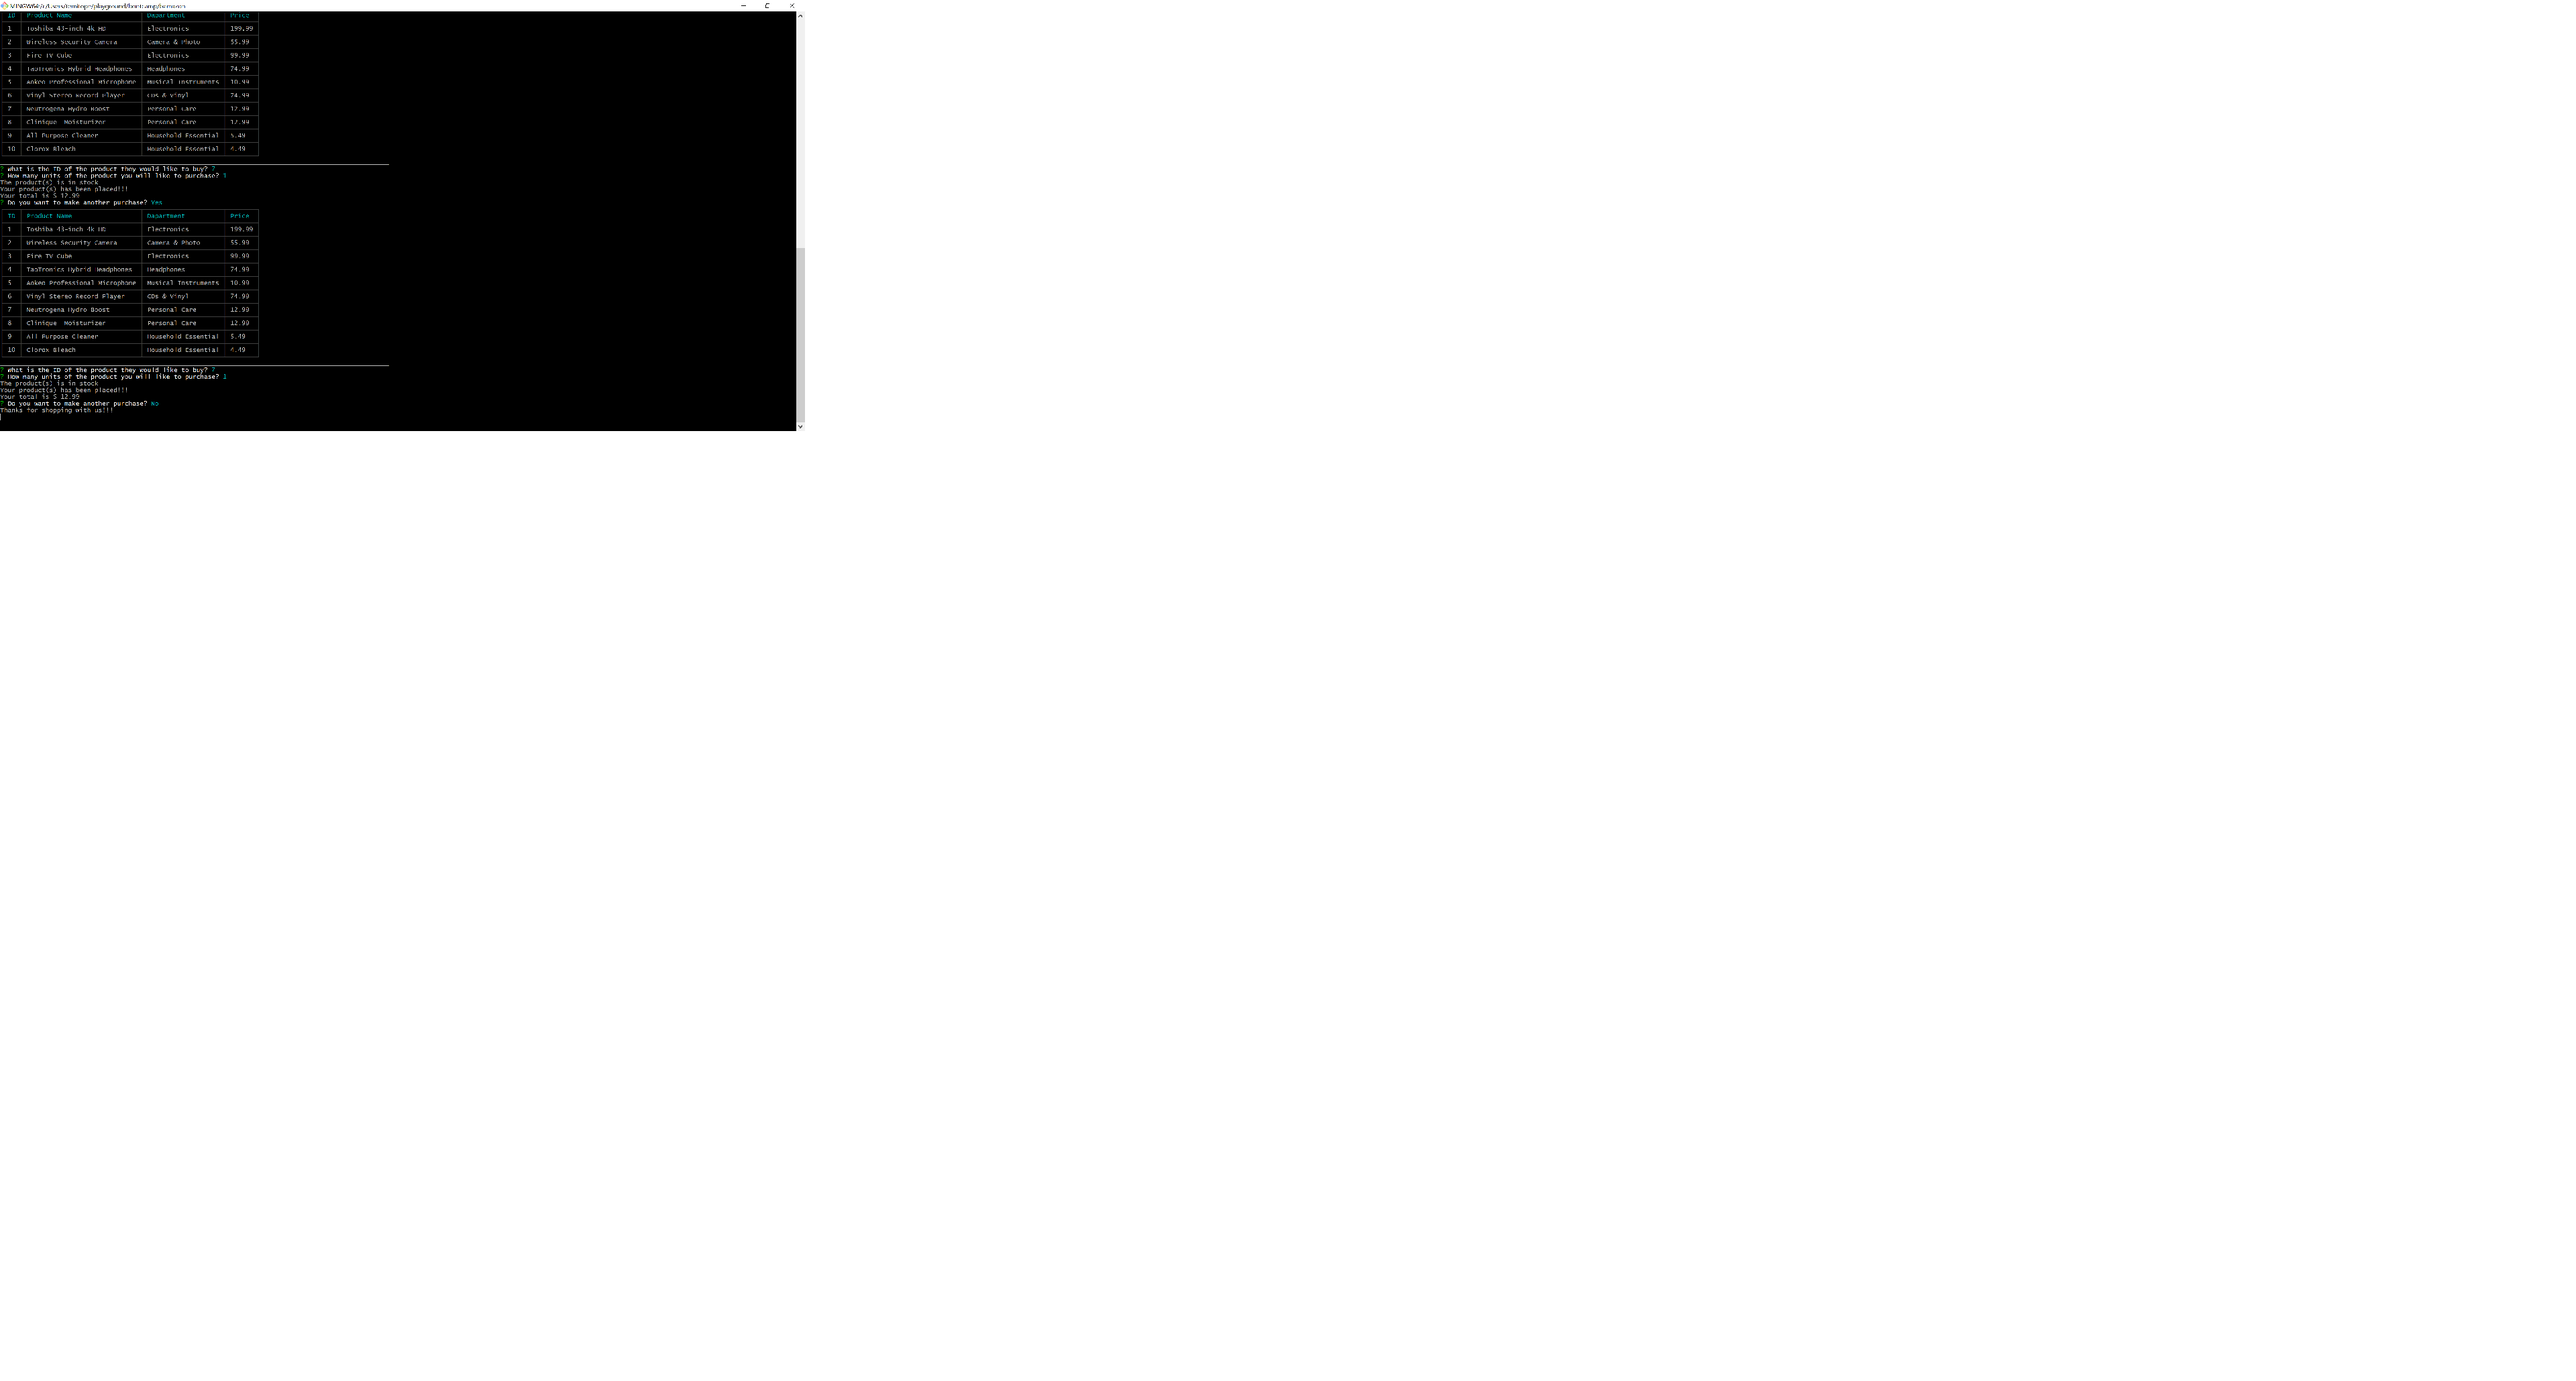
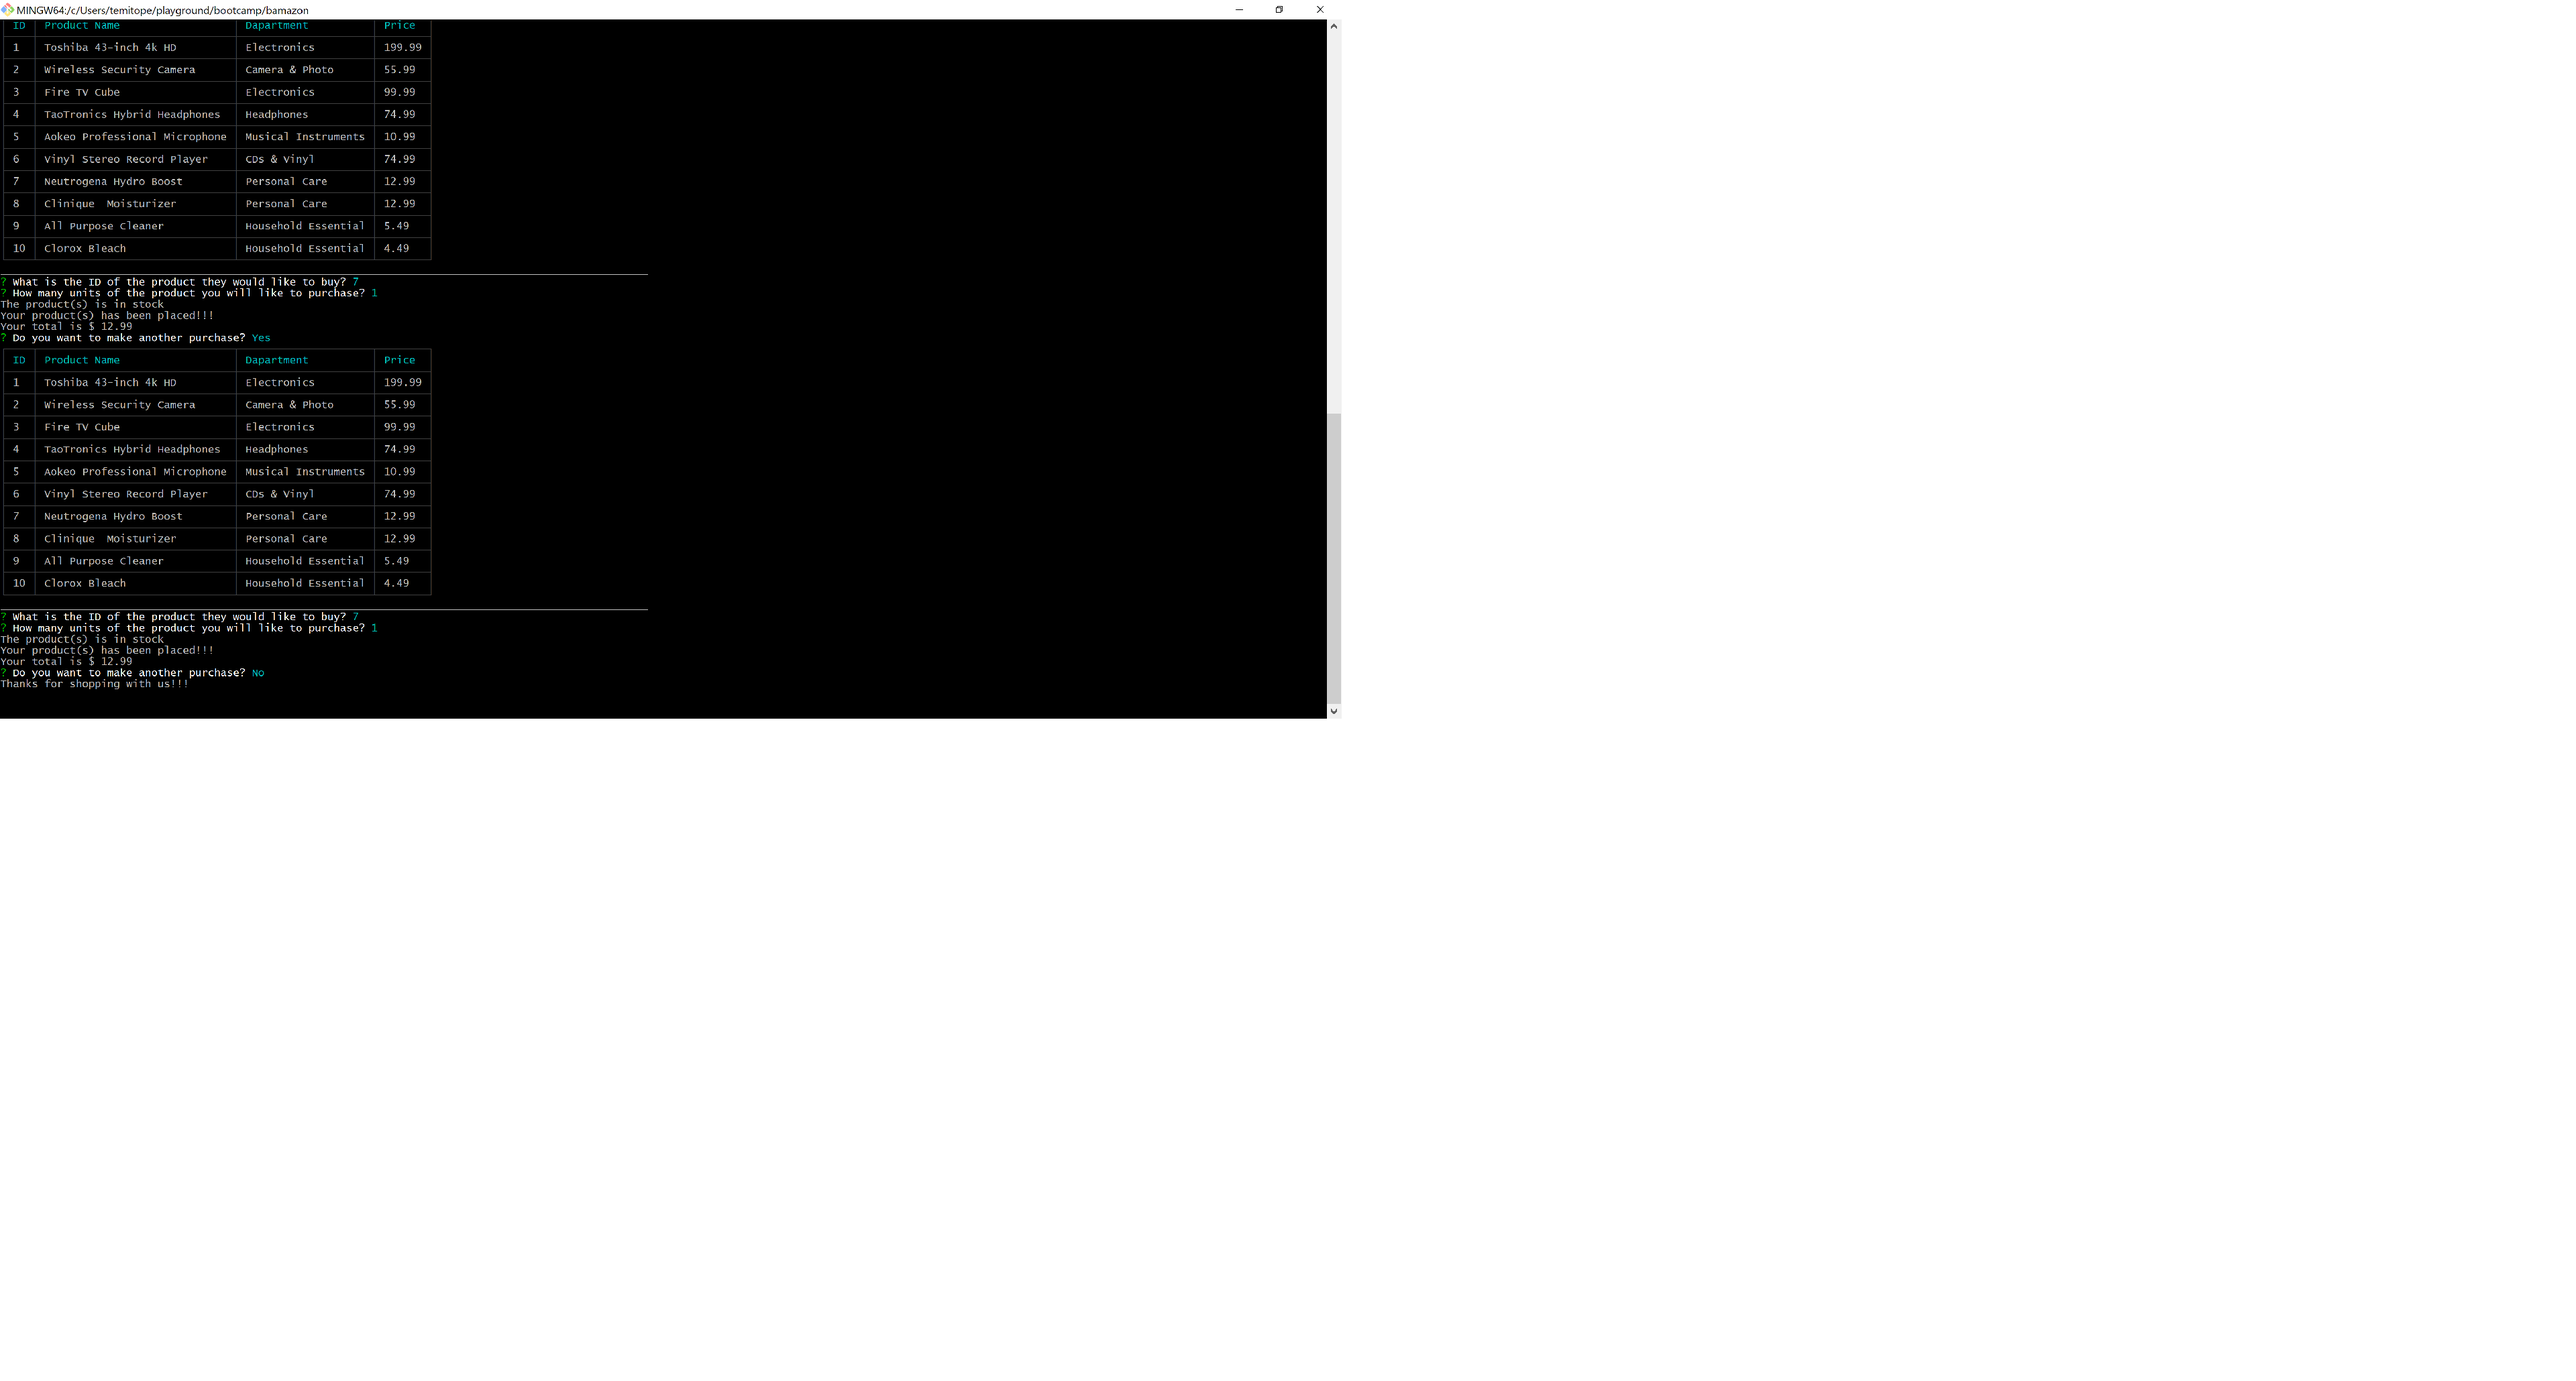
updating customer's view and adding manager's view

Changed region(s): [[0.0, 0.0, 0.5312, 0.5282]]

diff --git a/bamazonManager.js b/bamazonManager.js
@@ -108,15 +108,58 @@ function lowInventory() {
 }
 
 function addInventory() {
-  console.log("Add more products ................ \n");
-
-  inquirer.prompt([
-    {
-      name: "inventory",
-      type: "input",
-      message: "What is the product name?"
+  connection.query("SELECT * FROM Products", function(err, results) {
+    var productsArr = [];
+    for (var i = 0; i < results.length; i++) {
+      productsArr.push(results[i].product_name);
     }
-  ]);
+    console.log("Updating product low inventory...");
+    inquirer
+      .prompt([
+        {
+          name: "inventory",
+          type: "list",
+          message: "What product will you like to add more inventory?"
+        },
+        {
+          name: "quantity",
+          type: "input",
+          message: "How many quantity are you adding?",
+          validate: function(value) {
+            if (isNaN(value) === false) {
+              return true;
+            } else {
+              return false;
+            }
+          }
+        }
+      ])
+      .then(function(answer) {
+        var currentqty;
+        for (var i = 0; i < results[i]; i++) {
+          if (results[i].product_name === answer.inventory) {
+            currentqty = res[i].stock_quantity;
+          }
+        }
+
+        var query = connection.query(
+          "UPDATE Products SET ? WHERE ?",
+          [
+            { stock_quantity: currentqty + parseInt(answer.quantity) },
+            { product_name: answer.inventory }
+          ],
+          function(err, res) {
+            if (err) throw err;
+            console.log(res.affectedRows + " products updated!\n");
+          }
+        );
+
+        // logs the actual query being run
+        console.log(query.sql);
+
+        menu();
+      });
+  });
 }
 
 function newInventory() {

diff --git a/bamazonCustomer.js b/bamazonCustomer.js
@@ -97,7 +97,7 @@ function userPurchase() {
         } else {
           var productInventory = res[0];
           if (qty <= productInventory.stock_quantity) {
-            console.log("The product(s) is in stock");
+            console.log("The product is in stock");
 
             var updateQuery =
               "UPDATE products SET stock_quantity = " +
@@ -117,6 +117,7 @@ function userPurchase() {
           } else {
             if (qty > productInventory.stock_quantity) {
               console.log("Insuffiencient quantity!!!");
+              bamazon();
             }
           }
         }

diff --git a/README.md b/README.md
@@ -28,8 +28,8 @@
     * This means updating the SQL database to reflect the remaining quantity.
     * Once the update goes through, show the customer the total cost of their purchase.
 
-### Run customer's view
+## Run customer's view
 
 `<node bamazonCustomer.js>`
 
-![customer-view screenshot](/img/customerView.png)
+![customer-view screenshot](/img/customer-view.png)
